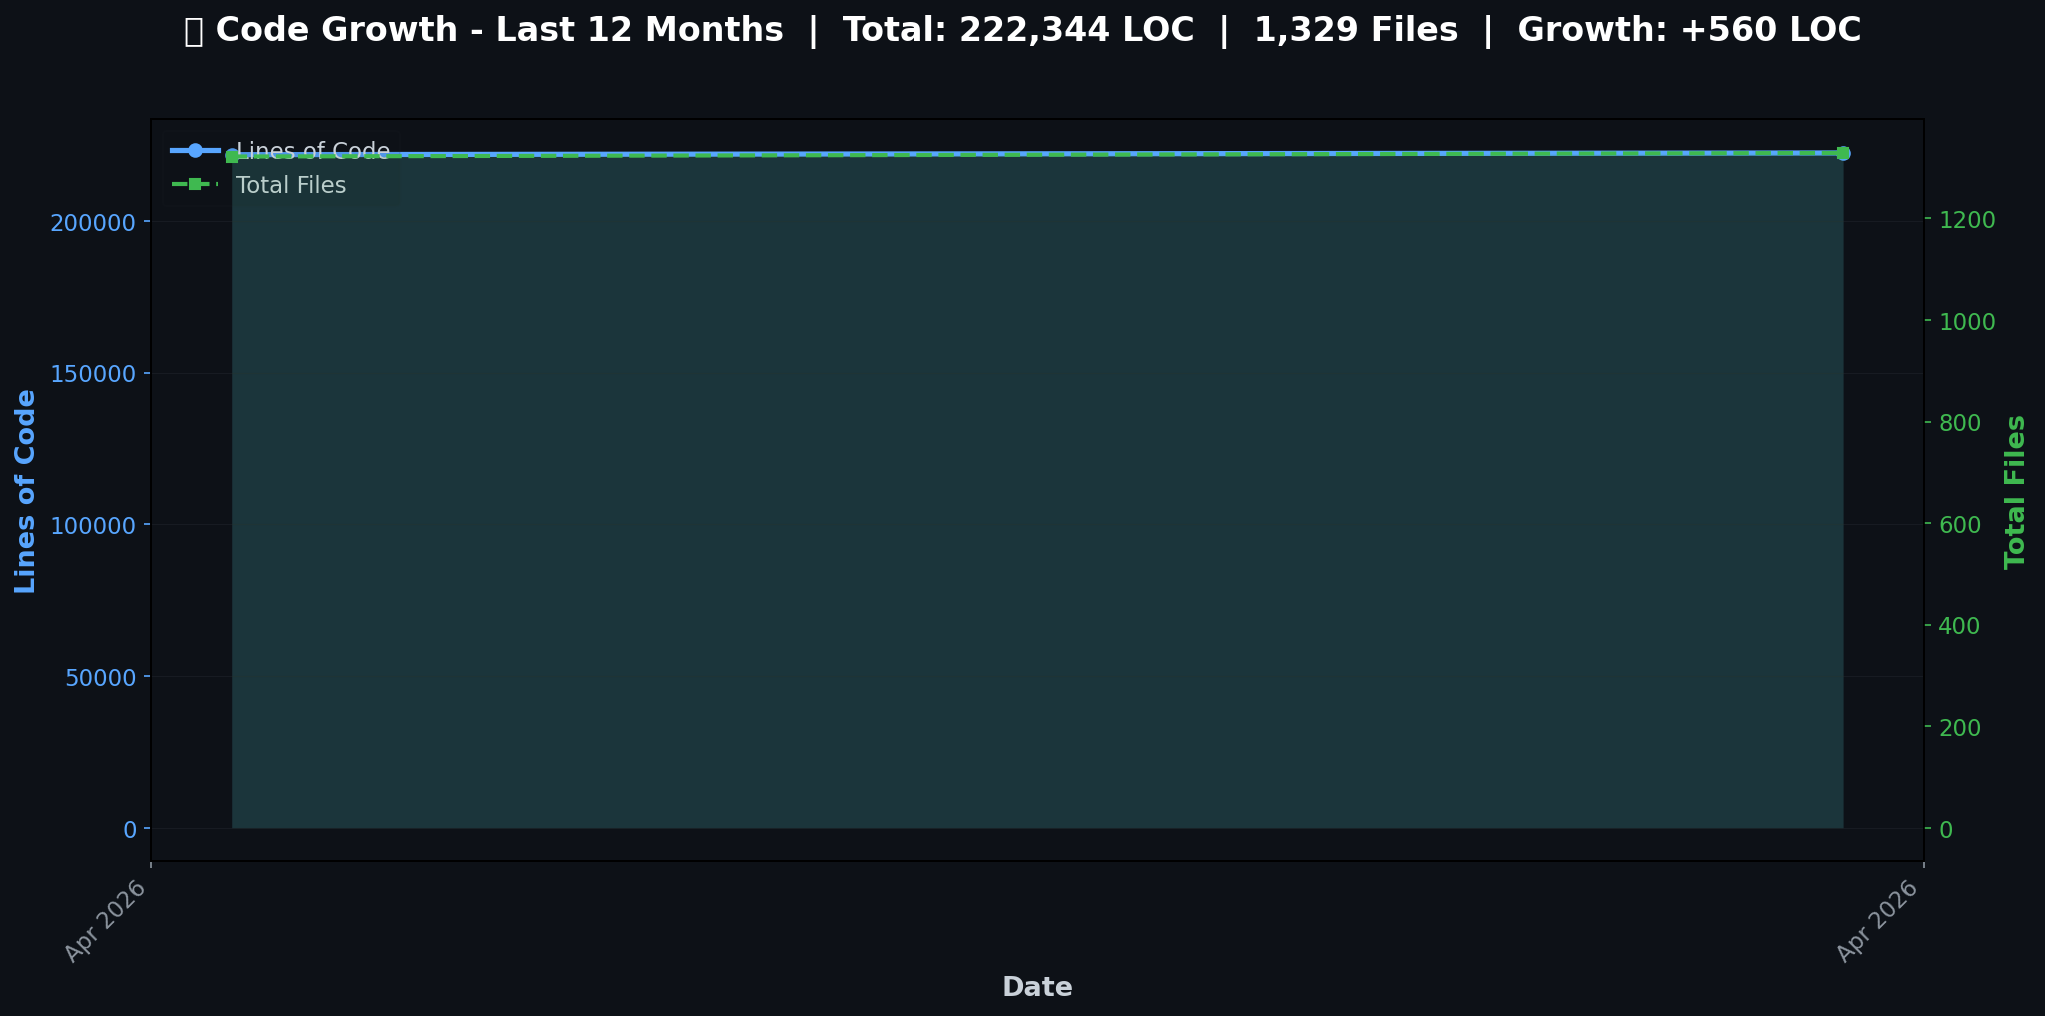
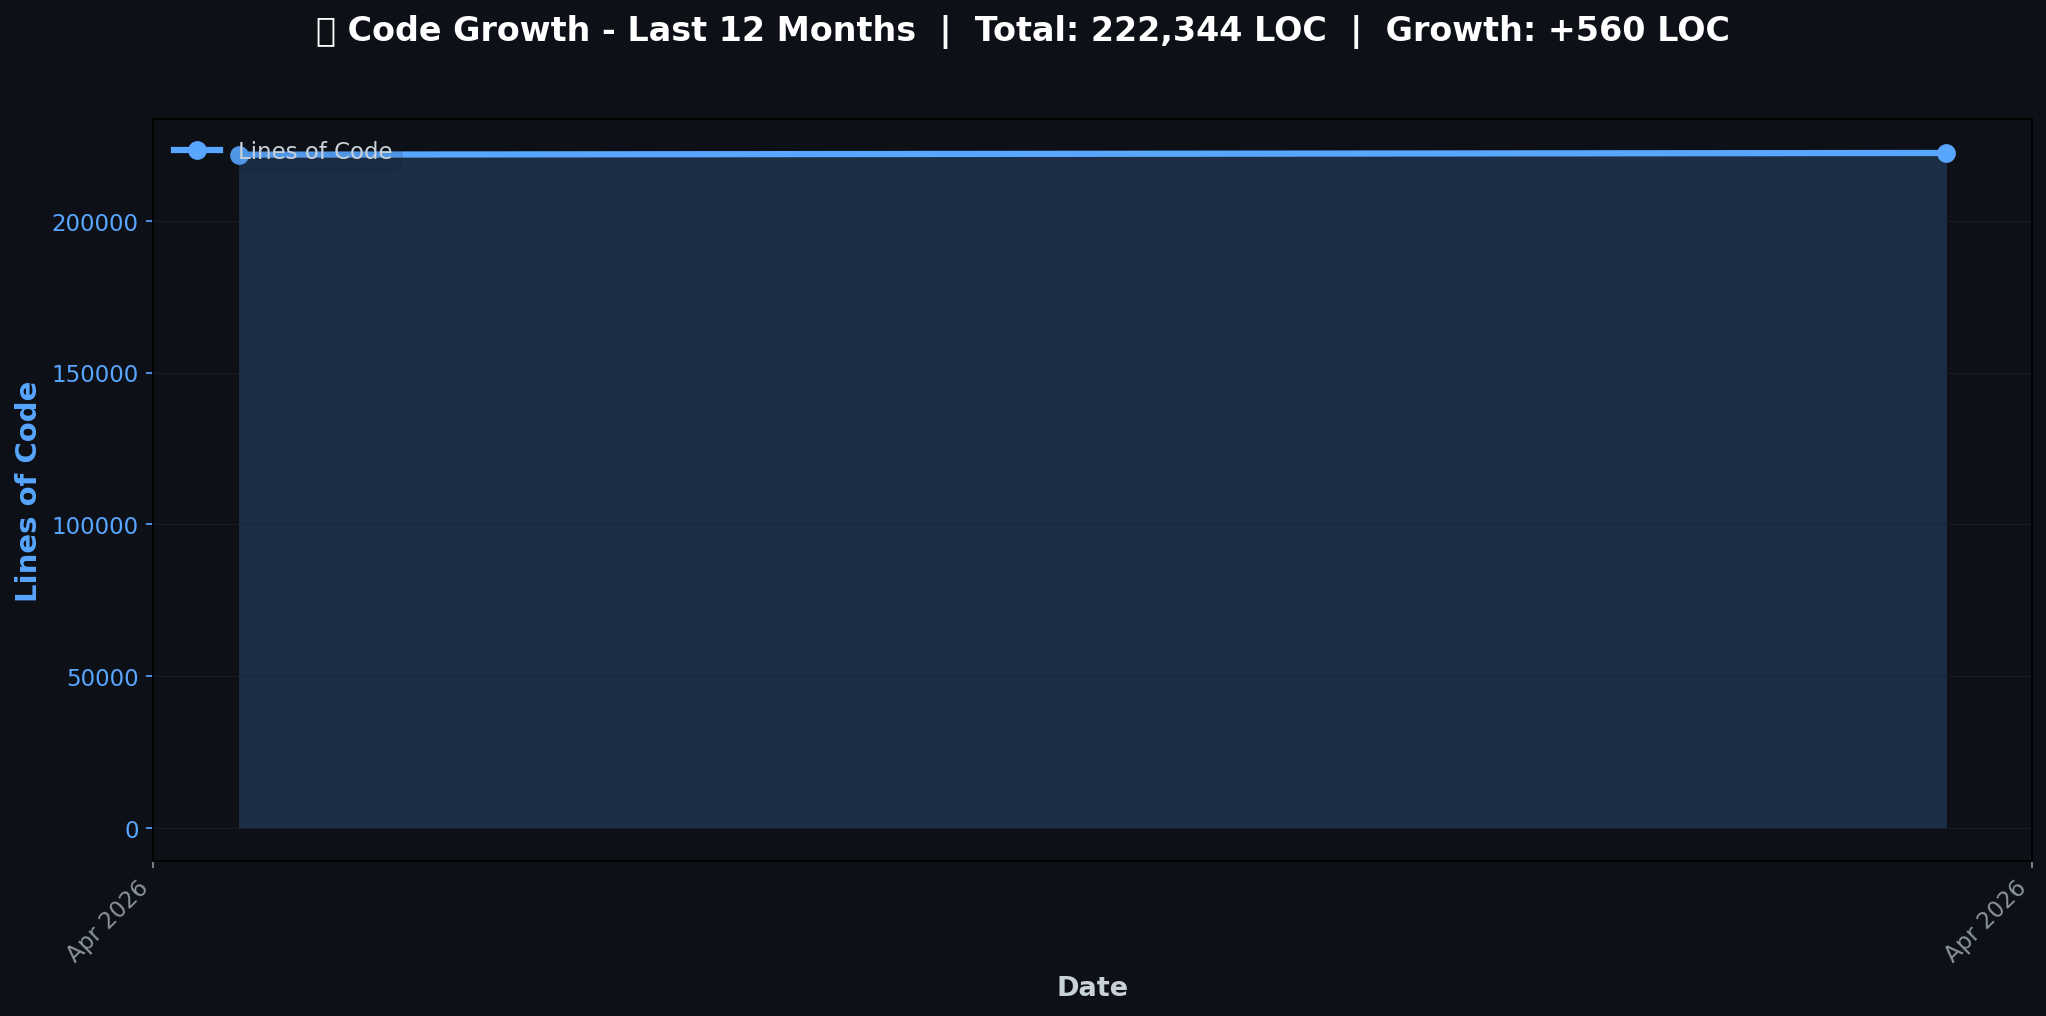
refactor: remove file count overlay from LOC chart for better visibility

diff --git a/plot_loc.py b/plot_loc.py
@@ -39,8 +39,6 @@ COLORS = {
     "grid": "#21262d",        # Grid lines
     "line_loc": "#58a6ff",    # Blue for LOC line
     "fill_loc": "#58a6ff",    # Blue fill
-    "line_files": "#3fb950",  # Green for files line
-    "fill_files": "#3fb950",  # Green fill
     "text": "#c9d1d9",        # Main text
     "text_dim": "#8b949e",    # Dimmed text
     "title": "#ffffff",       # Title
@@ -58,7 +56,6 @@ def load_data():
 
     dates = []
     loc_values = []
-    file_values = []
 
     with open(DATA_FILE, "r") as f:
         reader = csv.DictReader(f)
@@ -67,7 +64,6 @@ def load_data():
                 date = datetime.strptime(row["date"], "%Y-%m-%d")
                 dates.append(date)
                 loc_values.append(int(row["total_loc"]))
-                file_values.append(int(row["total_files"]))
             except (ValueError, KeyError) as e:
                 print(f"📈 [WARN] Skipping invalid row: {e}")
                 continue
@@ -76,87 +72,62 @@ def load_data():
         print("📈 [ERROR] No valid data found in CSV file!")
         sys.exit(1)
 
-    return dates, loc_values, file_values
+    return dates, loc_values
 
 
-def filter_last_year(dates, loc_values, file_values):
+def filter_last_year(dates, loc_values):
     """Filter data to only include the last year."""
     cutoff = datetime.now() - timedelta(days=DAYS_BACK)
-    
+
     filtered_dates = []
     filtered_loc = []
-    filtered_files = []
-    
-    for d, loc, files in zip(dates, loc_values, file_values):
+
+    for d, loc in zip(dates, loc_values):
         if d >= cutoff:
-            filtered_date = d
-            filtered_dates.append(filtered_date)
+            filtered_dates.append(d)
             filtered_loc.append(loc)
-            filtered_files.append(files)
-    
-    return filtered_dates, filtered_loc, filtered_files
+
+    return filtered_dates, filtered_loc
 
 
-def create_plot(dates, loc_values, file_values):
+def create_plot(dates, loc_values):
     """Create the area plot."""
     # Setup figure
-    fig, ax1 = plt.subplots(figsize=(14, 7))
+    fig, ax = plt.subplots(figsize=(14, 7))
     fig.patch.set_facecolor(COLORS["bg"])
-    ax1.set_facecolor(COLORS["bg"])
+    ax.set_facecolor(COLORS["bg"])
 
-    # ── Primary Y-axis: Lines of Code ──
-    ax1.fill_between(
-        dates, loc_values, alpha=0.15, color=COLORS["fill_loc"], linewidth=0
+    # ── Lines of Code ──
+    ax.fill_between(
+        dates, loc_values, alpha=0.2, color=COLORS["fill_loc"], linewidth=0
     )
-    ax1.plot(
+    ax.plot(
         dates,
         loc_values,
         color=COLORS["line_loc"],
-        linewidth=2.5,
+        linewidth=3,
         marker="o",
-        markersize=6,
+        markersize=8,
         label="Lines of Code",
         zorder=5,
     )
-    ax1.set_xlabel("Date", fontsize=13, color=COLORS["text"], fontweight="bold")
-    ax1.set_ylabel("Lines of Code", fontsize=13, color=COLORS["line_loc"], fontweight="bold")
-    ax1.tick_params(axis="x", colors=COLORS["text_dim"], labelsize=11)
-    ax1.tick_params(axis="y", colors=COLORS["line_loc"], labelsize=11)
-
-    # ── Secondary Y-axis: Total Files ──
-    ax2 = ax1.twinx()
-    ax2.fill_between(
-        dates, file_values, alpha=0.1, color=COLORS["fill_files"], linewidth=0
-    )
-    ax2.plot(
-        dates,
-        file_values,
-        color=COLORS["line_files"],
-        linewidth=2,
-        marker="s",
-        markersize=5,
-        label="Total Files",
-        linestyle="--",
-        zorder=4,
-    )
-    ax2.set_ylabel(
-        "Total Files", fontsize=13, color=COLORS["line_files"], fontweight="bold"
-    )
-    ax2.tick_params(axis="y", colors=COLORS["line_files"], labelsize=11)
+    ax.set_xlabel("Date", fontsize=13, color=COLORS["text"], fontweight="bold")
+    ax.set_ylabel("Lines of Code", fontsize=14, color=COLORS["line_loc"], fontweight="bold")
+    ax.tick_params(axis="x", colors=COLORS["text_dim"], labelsize=11)
+    ax.tick_params(axis="y", colors=COLORS["line_loc"], labelsize=11)
 
     # ── Grid ──
-    ax1.grid(True, color=COLORS["grid"], linestyle="-", linewidth=0.5, alpha=0.5)
+    ax.grid(True, color=COLORS["grid"], linestyle="-", linewidth=0.5, alpha=0.5)
 
     # ── Title ──
     total_loc = loc_values[-1] if loc_values else 0
-    total_files = file_values[-1] if file_values else 0
     growth = ""
     if len(loc_values) >= 2:
         diff = loc_values[-1] - loc_values[0]
         sign = "+" if diff >= 0 else ""
         growth = f"  |  Growth: {sign}{diff:,} LOC"
 
-    title = f"🚂 Code Growth - Last {DAYS_BACK//30} Months  |  Total: {total_loc:,} LOC  |  {total_files:,} Files{growth}"
+    title = f"🚂 Code Growth - Last {DAYS_BACK//30} Months  |  Total: {total_loc:,} LOC{growth}"
     fig.suptitle(
         title,
         fontsize=16,
@@ -166,16 +137,12 @@ def create_plot(dates, loc_values, file_values):
     )
 
     # ── Date formatting ──
-    ax1.xaxis.set_major_formatter(mdates.DateFormatter("%b %Y"))
-    ax1.xaxis.set_major_locator(mdates.MonthLocator())
-    plt.setp(ax1.xaxis.get_majorticklabels(), rotation=45, ha="right")
+    ax.xaxis.set_major_formatter(mdates.DateFormatter("%b %Y"))
+    ax.xaxis.set_major_locator(mdates.MonthLocator())
+    plt.setp(ax.xaxis.get_majorticklabels(), rotation=45, ha="right")
 
     # ── Legend ──
-    lines1, labels1 = ax1.get_legend_handles_labels()
-    lines2, labels2 = ax2.get_legend_handles_labels()
-    ax1.legend(
-        lines1 + lines2,
-        labels1 + labels2,
+    ax.legend(
         loc="upper left",
         fontsize=11,
         framealpha=0.1,
@@ -199,12 +166,12 @@ def main():
 
     # Load data
     print("📈 Loading data...")
-    dates, loc_values, file_values = load_data()
+    dates, loc_values = load_data()
     print(f"📈 Found {len(dates)} data points")
 
     # Filter to last year
     print(f"📈 Filtering to last {DAYS_BACK} days...")
-    dates, loc_values, file_values = filter_last_year(dates, loc_values, file_values)
+    dates, loc_values = filter_last_year(dates, loc_values)
     print(f"📈 {len(dates)} data points in range")
     print()
 
@@ -213,11 +180,10 @@ def main():
         # Duplicate the point so matplotlib can render it
         dates = [dates[0], dates[0]]
         loc_values = [loc_values[0], loc_values[0]]
-        file_values = [file_values[0], file_values[0]]
 
     # Create and save plot
     print("📈 Generating plot...")
-    fig = create_plot(dates, loc_values, file_values)
+    fig = create_plot(dates, loc_values)
     fig.savefig(
         OUTPUT_IMAGE,
         dpi=150,
